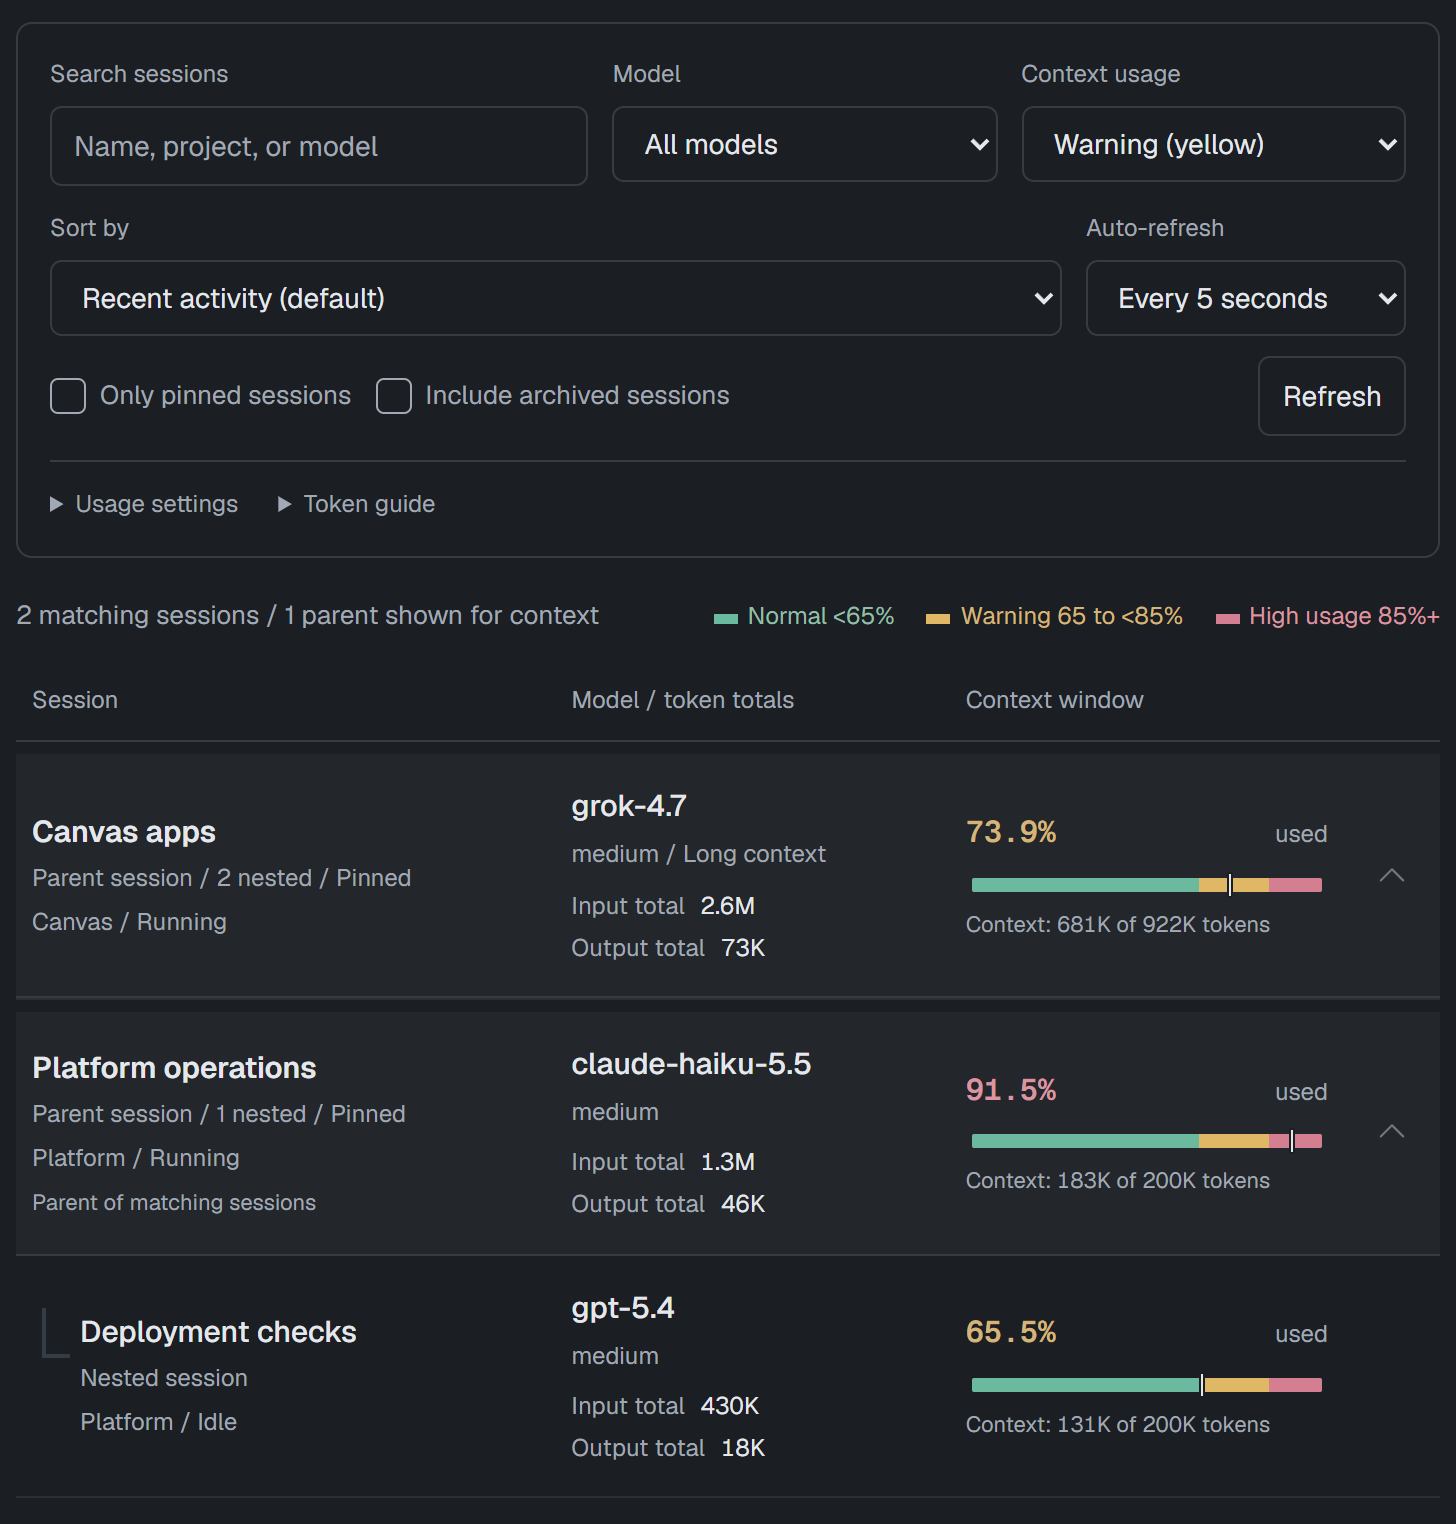
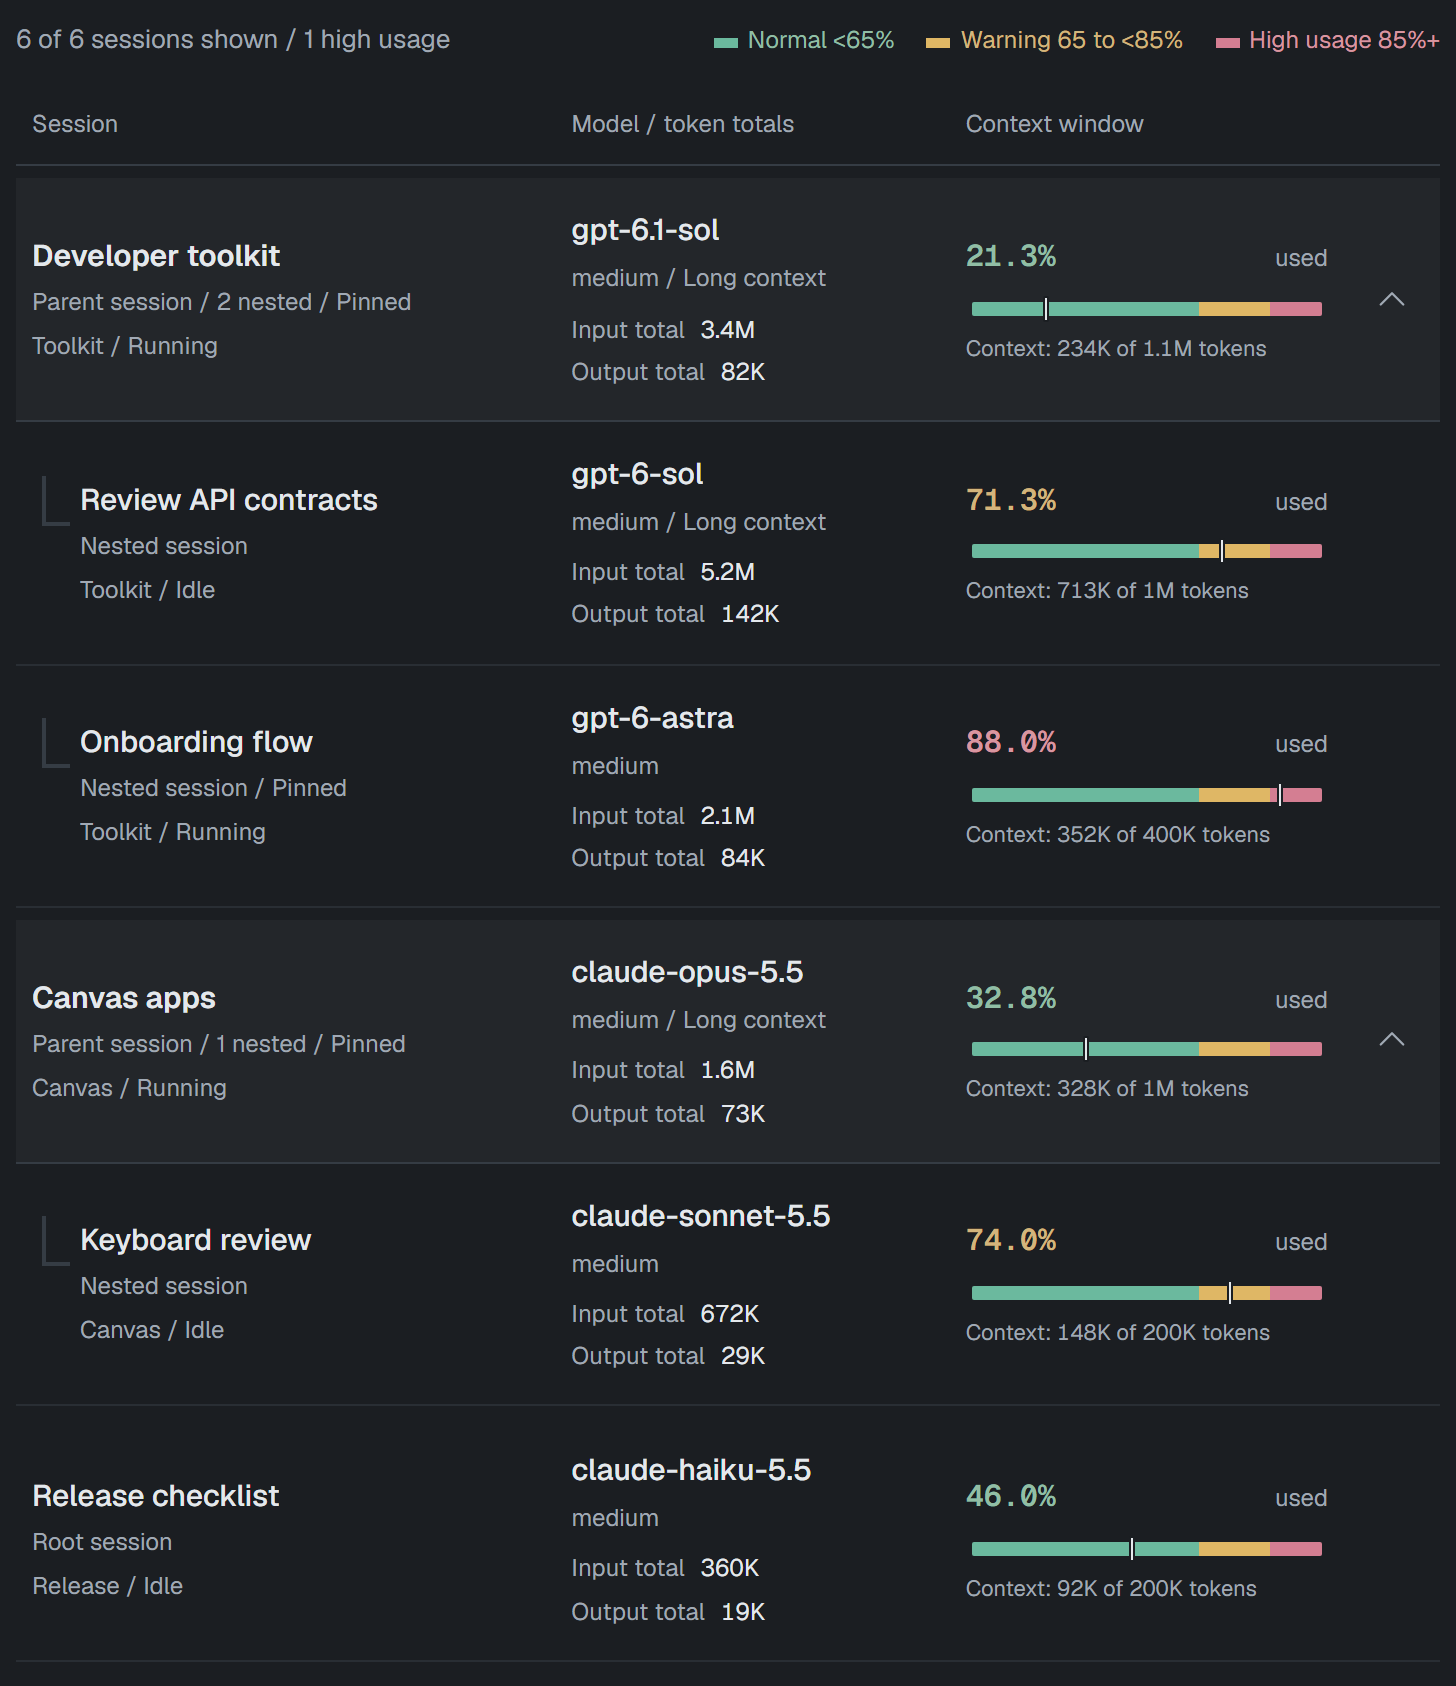
Trim Context Monitor README and refresh modern model previews
Match the minimal Thoughts README structure, remove screenshot commentary, and show six sample GPT-6/6.1 Sol, GPT-6 Astra, and Claude 5.5 sessions with varied context windows.

Copilot-Session: 00babc8b-3aa2-4873-a4ea-72e82f7c85ed

diff --git a/apps/context-monitor/README.md b/apps/context-monitor/README.md
@@ -1,10 +1,8 @@
 # Context Monitor
 
-View your GitHub Copilot app sessions, models, and context usage in one canvas. Filter by pins or model, show a parent's nested sessions, and compare token usage.
+See your GitHub Copilot app sessions, models, and context usage in one canvas.
 
-<img src="screenshot.png" alt="Context Monitor showing parent and nested sessions, different models, and context usage" width="640">
-
-Dark-theme preview with synthetic Claude, GPT, and Grok sessions. It shows the unified controls filtering for **Warning (yellow)** sessions, with a parent retained for hierarchy. [Open the full-resolution overview](screenshot-full.png) for all 10 sample sessions. Model names illustrate the interface, not guaranteed availability for an account.
+<a href="screenshot-full.png"><img src="screenshot.png" alt="Context Monitor with sample GPT-6, GPT-6.1, and Claude sessions using different context windows" width="640"></a>
 
 ## Use in the GitHub Copilot app
 
@@ -17,48 +15,15 @@ https://github.com/likamrat/ghcp-canvas-apps/tree/main/apps/context-monitor
 Open Context Monitor when installation is complete.
 ```
 
-Review the installation approval. Personal/user scope makes the canvas available across chats. The extension must run on the computer hosting the app's local metadata database; an unrelated remote or cloud machine cannot read it.
+Filter by model, pinned sessions, or context usage. Use the arrow at the end of a parent row to show its nested sessions.
 
-| Control | What it does |
-| --- | --- |
-| Parent arrow icon | Show or hide nested sessions. Hover or focus the icon for its description; top-level parents start collapsed. |
-| Search sessions | Search by name, project, model, or session ID. Matching children keep their parents visible. |
-| Only pinned sessions | Show sessions you pinned in the GitHub Copilot app. This filters existing pins; it does not change them. |
-| Model | Choose a model currently used by an open (non-archived) session, or All models. Options update with the app's metadata. |
-| Context usage | Show Normal (green), Warning (yellow), High usage (red), Not reported, or All usage levels. |
-| Sort by | Choose recent activity (default), most/least context used, highest/lowest percentage used, largest context window, or name A-Z/Z-A. |
-| Auto-refresh | Choose 5 seconds (default), 10 seconds, 30 seconds, 1 minute, 5 minutes, or Off. |
-| Usage settings | Set the Warning and High usage percentages, then Apply. Reset defaults restores 65% / 85%. |
-| Token guide | Open a plain-language explanation of input, output, and context counts. |
-| Session name | Show exact token counts, limits, and available breakdowns. |
-| Include archived sessions | Include archived sessions, which are hidden initially. An empty checkbox means they are excluded. |
-| Refresh | Read the latest saved app metadata immediately. |
-
-Sorting keeps parent groups together. Context-based sorts rank each group by its highest or lowest matching value and expand it so relevant children are visible. Missing values go last. Auto-refresh preserves your sort and expansion choices, pauses while the canvas is hidden, and never overlaps reads. Off leaves manual Refresh available.
-
-All controls live in one panel: search, model and usage filters first, followed by sorting, refresh, and the checkboxes. Usage settings and the Token guide open only when needed.
-
-Pin, model, context-usage, and search filters work together. A pinned child does not pin its parent, and pinning a parent does not automatically include its unpinned children. Necessary ancestors remain visible and are labeled **Parent of matching sessions**; the matching-session and high-usage counts exclude these context-only parents. Filtering reveals matching descendants; clear the filters to return to your expansion choices.
-
-The model list comes from session metadata, not the account's available-model catalog. Archived-only models and sessions without a reported model do not create options. Including archived sessions can show archived matches for a selected model, but does not add archived-only models to the list. If a selected model is no longer used by an open session, the filter resets to All models with a visible notice.
-
-Usage warning levels must be whole percentages from 0 to 100, with Warning below High usage. They are saved across views. The context-usage filter follows those saved levels and updates immediately when you Apply new settings or Reset defaults. Unknown usage is separate from Normal and appears only under Not reported or All usage levels.
-
-The colored strip shows these ranges; the vertical marker shows actual usage. A fully colored strip does not mean the context window is full. Unknown usage is **N/A**, with a neutral dashed strip and no marker.
-
-**What the token numbers mean.** Tokens are pieces of text that the model processes. **Input total** counts the tokens the model has read across the session's requests, including messages, history, and tools. **Output total** counts the tokens it has generated. Both appear in each compact row, including short sessions, and are the app's reported totals.
-
-**Context** is different: it shows the tokens currently in the input window against that window's capacity. The percentage and strip use this reading, not the session's cumulative input/output totals. Select a session name for exact counts and explanations of **Input window limit** and **Reply output limit**. The latter is the maximum output for one response, not the amount already generated. Missing totals say **Not reported**; an actual zero remains zero.
+Choose a refresh interval or refresh manually. Open Usage settings to change the warning levels or reset them to 65% and 85%. Select a session name for exact token counts.
 
 ## Data
 
-The extension reads `$COPILOT_HOME/data.db` in SQLite read-only mode. `COPILOT_HOME` defaults to `~/.copilot`. It reads selected session, workspace, model, parent-link, context fields, and the sidebar's pinned-session IDs, not prompts, conversations, credentials, event logs, or repository code. Nothing is uploaded.
+Reads the app's local session database without changing it. Input totals count tokens read across requests; output totals count tokens generated. Context shows the current window usage.
 
-Context values are the app's last reported snapshot, not lifetime token totals or a live estimate. Idle and archived sessions may have old samples. Warning levels do not predict when Copilot will compact a conversation. Missing fields are not invented.
-
-This is a local app-database adapter, not a public cross-session SDK API. Missing or incompatible databases produce an explicit error. Missing or malformed pin metadata disables the pinned-only filter with a warning, rather than guessing which sessions are pinned. Remote sessions appear only if the local app has their metadata. Historical CLI aliases, including pinned IDs, are normalized to one app session; detached sessions remain roots, and missing or hidden archived parents promote their children to roots.
-
-Warning preferences are saved separately in `$COPILOT_HOME/extensions/context-monitor/artifacts/settings.sqlite`. Concurrent edits are version-checked and preserve your draft on conflict. Other views pick up changes on refresh. Search, pin/model/usage filters, sorting, expansion, archive visibility, and refresh intervals are temporary per-view settings.
+Warning settings are saved locally across chats. Filters are temporary. No conversations are read or uploaded. The extension must run on the computer hosting the app's metadata.
 
 ## Develop
 
@@ -70,18 +35,12 @@ Run tests from this app's folder:
 node --test monitor.test.mjs
 ```
 
-Reload extensions after editing an installed copy. The repository's `.github/extensions/context-monitor/extension.mjs` entry loads the app for local development.
+Reload extensions after editing an installed copy.
 
-`extension.mjs` wires the canvas and snapshot/settings actions. `source.mjs` reads app metadata; `model.mjs` handles usage, hierarchy, search, and sorting; `settings.mjs` saves warning preferences. `server.mjs` serves `index.html`, `app.js`, `style.css`, local fonts, and icons.
-
-Tests cover synthetic SQLite data, read-only access, hierarchy, sorting, unknown telemetry, warning validation and conflicts, HTTP request checks, and refresh timing.
-
-Bundled [Geist fonts](https://github.com/vercel/geist-font) use the SIL Open Font License 1.1 ([license](fonts/LICENSE.txt)). No font CDN requests are needed.
-
-The trailing Show/Hide nested sessions icons use [Phosphor Icons](https://github.com/phosphor-icons/core) under MIT ([license](icons/LICENSE)), matching the icon family used in Thoughts.
+Fonts use [Geist](https://github.com/vercel/geist-font) ([license](fonts/LICENSE.txt)). Icons use [Phosphor Icons](https://github.com/phosphor-icons/core) ([license](icons/LICENSE)).
 
 ## Publish
 
-Keep the source, assets, screenshots, and this README in `apps/context-monitor/`. Push changes to `main`, then update the installed extension in the GitHub Copilot app.
+Keep the source, assets, and this README in `apps/context-monitor/`. Push changes to `main`, then update the installed extension in the GitHub Copilot app.
 
-Use synthetic content in screenshots. Keep app databases, session metadata, preferences, and logs out of the repository.
+Keep session data, databases, and logs out of the repository.
